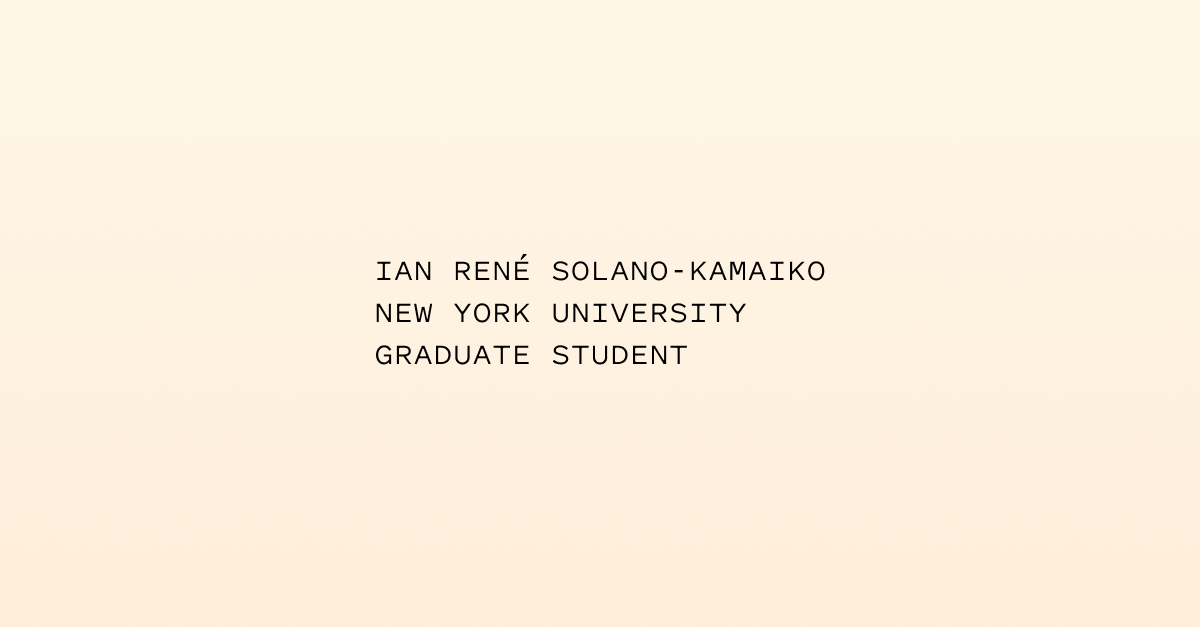
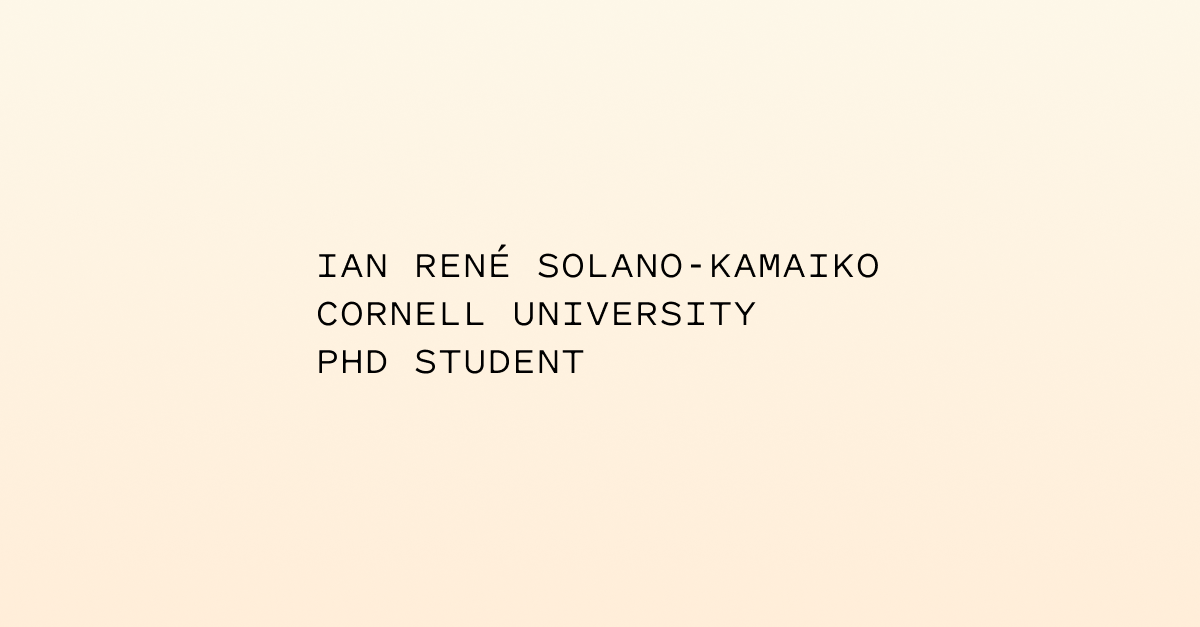
updating metadata

Changed region(s): [[0.2775, 0.3939, 0.74, 0.4545], [0.2467, 0.5455, 0.5858, 0.6061], [0.2467, 0.4848, 0.6475, 0.5152]]

diff --git a/components/meta.tsx b/components/meta.tsx
@@ -5,7 +5,7 @@ const Meta = () => (
     <title>Personal Website | Ian René Solano-Kamaiko</title>
     <meta
       name="description"
-      content="Ian René Solano-Kamaiko is a graduate student in Computer Science at the NYU Tandon School of Engineering."
+      content="Ian René Solano-Kamaiko is a Ph.D. student in Information Science at Cornell University."
     />
     <meta property="og:type" content="website" />
     <meta
@@ -16,16 +16,16 @@ const Meta = () => (
     <meta
       name="og:description"
       property="og:description"
-      content="Ian René Solano-Kamaiko is a graduate student in Computer Science at the NYU Tandon School of Engineering."
+      content="Ian René Solano-Kamaiko is a Ph.D. student in Information Science at Cornell University."
     />
     <meta name="twitter:card" content="summary" />
     <meta
       name="twitter:title"
-      content="Personal Website | Ian René Solano-Kamaiko"
+      content="Ian René Solano-Kamaiko | Personal Website"
     />
     <meta
       name="twitter:description"
-      content="Ian René Solano-Kamaiko is a graduate student in Computer Science at the NYU Tandon School of Engineering."
+      content="Ian René Solano-Kamaiko is a Ph.D. student in Information Science at Cornell University."
     />
     <meta name="twitter:creator" content="@ianrsolano" />
     <meta property="og:image" content="/og-image.png" />
